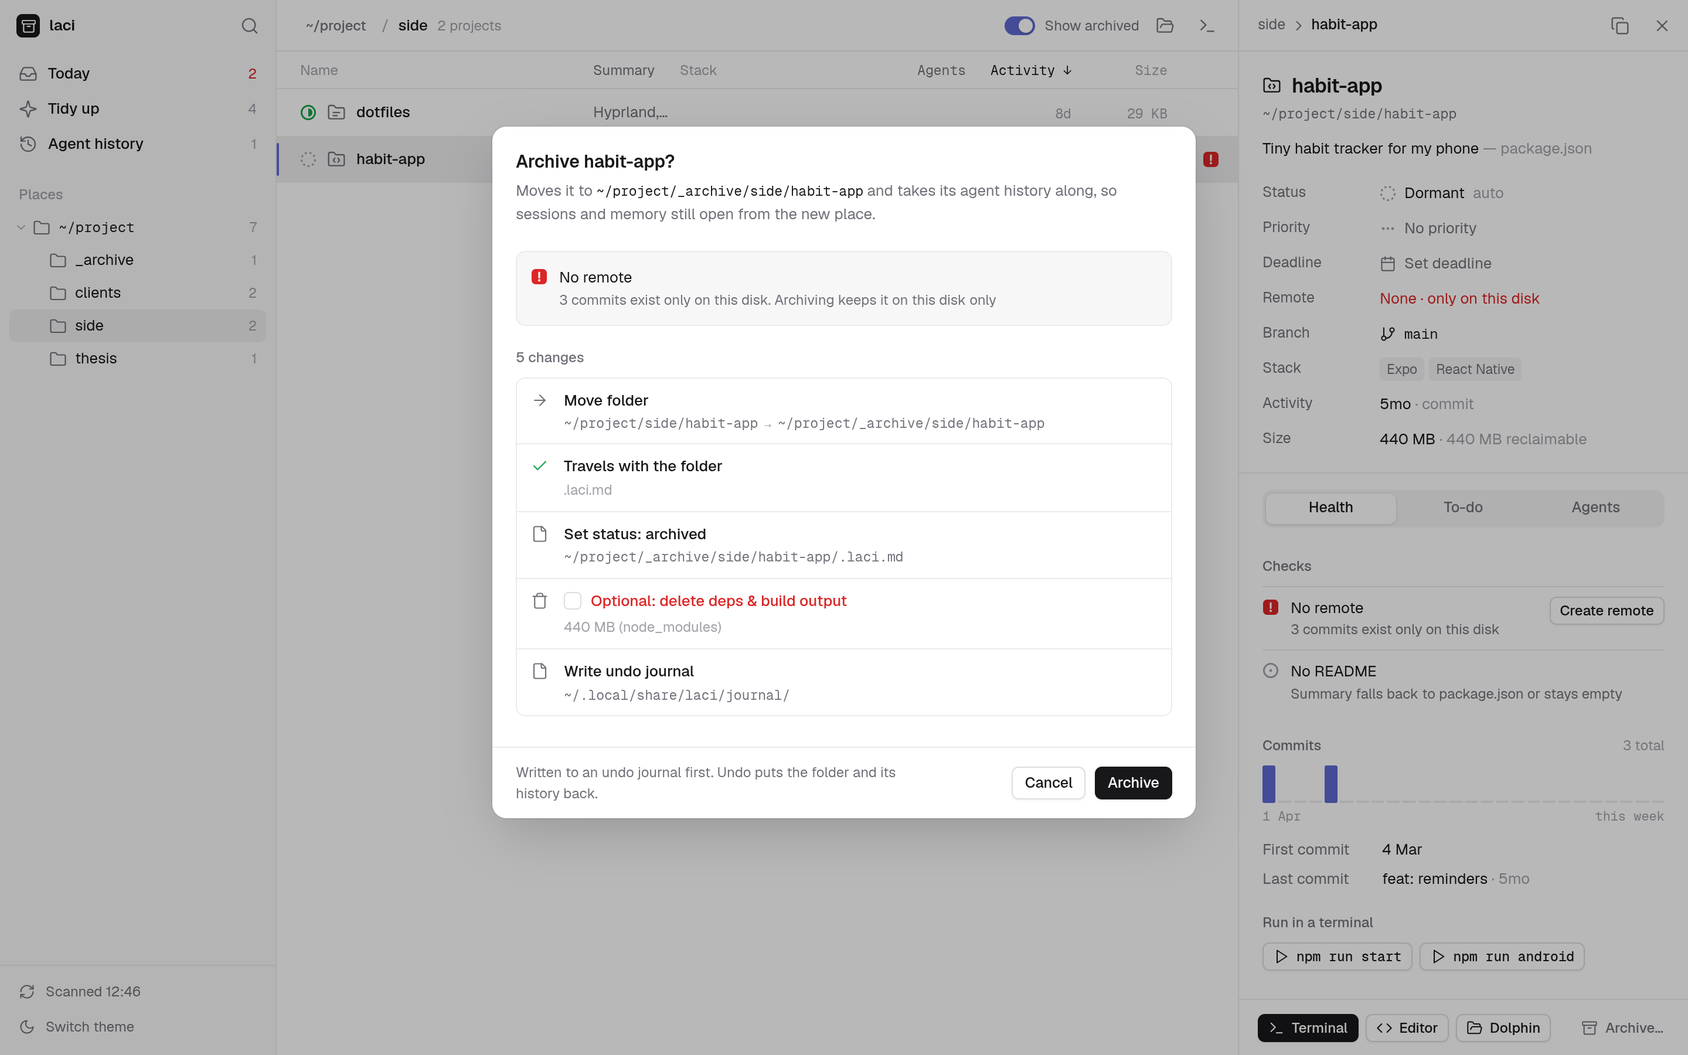
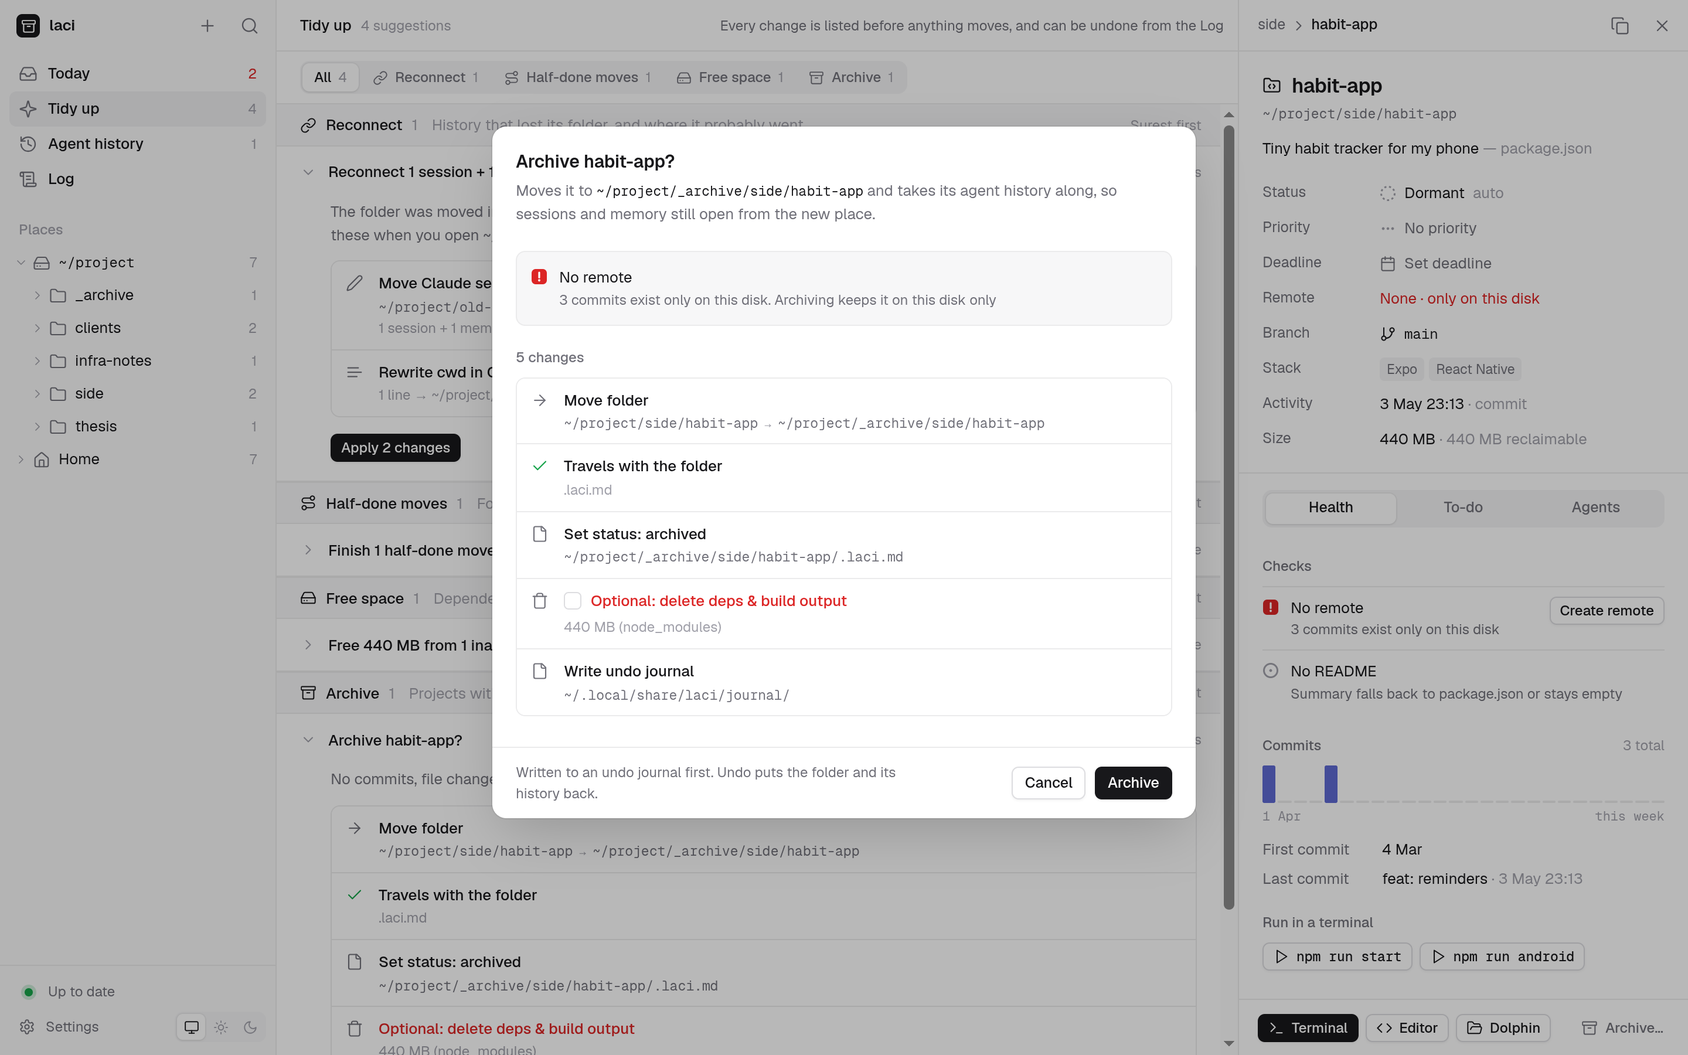
docs: README and screenshots for v1, changelog 1.0.0

diff --git a/README.md b/README.md
@@ -4,14 +4,14 @@
 
 *Laci* is Indonesian for "drawer".
 
-laci scans your project folders and shows, for each one: git state, README summary, stack, open to-dos, and the Claude Code and Codex sessions that worked in it. It warns you about work that exists only on this disk. When you move or archive a project, its agent history and memory move with it, and every change can be undone.
+laci shows every folder like a file manager, and for each project it adds its git state, README summary, stack, open to-dos, and the Claude Code, Codex or other agent sessions that worked in it. It warns you about work that exists only on this disk. When you move or archive a project, its agent history and memory move with it. Every change laci makes is logged and can be undone, and the app keeps itself up to date as you work.
 
 <picture>
   <source media="(prefers-color-scheme: dark)" srcset="docs/screenshots/today-dark.png">
   <img alt="The Today view: work that could be lost, projects to pick up again, and open to-dos" src="docs/screenshots/today-light.png">
 </picture>
 
-> Status: early (v0.1), Linux only. Expect rough edges.
+> Status: v1.0, Linux only. Early software: expect rough edges. See the [changelog](CHANGELOG.md).
 
 ## Contents
 
@@ -43,42 +43,67 @@ laci puts all of this in one place and makes moving projects safe.
 
 ### Today: what needs you
 
-The home screen answers "what should I look at?":
+The home screen answers "what should I look at?". Each list says how it's ordered.
 
 - **Could lose work**: no remote, never committed, uncommitted or unpushed changes, stashes. Each row has a one-click fix (for example *Create remote* or *Push*) that opens in the built-in terminal.
 - **Pick up where you left off**: recently active projects, each with its last commit and last agent session.
 - **Open to-dos**: every open `- [ ]` checkbox across your notes files, plus next steps you add in laci.
 - **Handoffs**: `HANDOFF.md` or `TODO.md` files that still have open items under a TODO heading.
 
+### Browse everything
+
+Every folder and file, like Dolphin or Finder, with projects marked by their status, summary, stack, agent sessions and health. *Modified* means the same on every row: when anything inside last changed, whether a file, a commit or an agent session.
+
+- **Filters**: *All files* shows the folder you're in. *Projects*, *Uses laci*, *Agent sessions* and *Needs attention* list matching projects in this folder and every folder below it.
+- **Display**: sort by name, modified, size or agent sessions in either direction, keep folders first or mix them in, and show hidden files or archived projects. Column headers sort too.
+
+![Every project under ~/project, with status, summary, stack, agent sessions and health](docs/screenshots/browse.png)
+
 ### Projects and details
 
-Browse your project folders. Select one to see its summary, status, priority, deadline, remote, branch, stack and size. The panel has four tabs:
+Select a project to see its summary, status, priority, deadline, remote, branch, stack and size. The panel has four tabs:
 
 - **Health**: checks and a commit chart.
 - **To-do**: next steps and notes.
-- **Agents**: sessions, memory and plans.
+- **Agents**: sessions, memory and plans from every connected tool.
 - **README**: the rendered README.
 
 ![A project's details: status, priority, deadline, remote, stack, checks and commit activity](docs/screenshots/project.png)
 
 ### Tidy up
 
-laci finds cleanups and shows exactly which files each one touches before anything changes:
+laci finds cleanups and shows exactly which files each one touches before anything changes. They're grouped by kind, fixes for broken links first:
 
 - **Reconnect** agent history left at a folder's old address.
 - **Finish half-done moves**: session folders that were renamed while the logs inside still record the old path.
-- **Quarantine** sessions whose folder no longer exists.
 - **Free space** from `node_modules` and build output in dormant or archived projects.
-- **Archive** projects nobody has touched in a while.
 - **Duplicates**: the same repo cloned in two places.
+- **Quarantine** sessions whose folder no longer exists.
+- **Archive** projects nobody has touched in a while.
 
-![Tidy up: each suggestion lists the files it will change](docs/screenshots/tidy.png)
+![Tidy up: suggestions grouped by kind, each listing the files it will change](docs/screenshots/tidy.png)
 
 ### Archive and move, with the history attached
 
-Archiving moves a project into the nearest `_archive/` folder. laci also moves its Claude session folder, rewrites the `cwd` paths in the Claude and Codex logs, and marks the project archived. Everything goes into an undo journal first.
+Archiving moves a project into the nearest `_archive/` folder. laci also moves its agent history (Claude's session folder, and whatever else your connectors keep), rewrites the folder paths in the logs, and marks the project archived. Everything goes into an undo journal first.
 
 ![The archive dialog: warnings first, then every change it will make](docs/screenshots/archive.png)
+
+### Log
+
+Every change laci makes, from the app or from an agent through MCP: moves, archives, Tidy fixes, status, priority and deadline, to-dos, notes, connectors, settings and new projects. Moves expand to show what went where. Most changes have an *Undo*; one that was changed again later says so instead of overwriting the newer change.
+
+![The Log: an archive expanded to show its steps, and edits made by an agent](docs/screenshots/log.png)
+
+### Agent history and connectors
+
+A connector tells laci where an AI tool keeps its history, so it shows on the right project and travels with it. Claude Code, Codex, Gemini CLI, Claude plans, Serena and Aider are built in; laci suggests the ones it finds on your machine. Any other tool can be added with a short form, no code: its logs record the folder, it keeps one folder per project, it keeps history inside the project, or its files mention project paths.
+
+![Agent history: connected tools, sessions per project, and history whose folder is gone](docs/screenshots/agents.png)
+
+### New project
+
+<kbd>+</kbd> in the sidebar makes a project folder: empty, from a template in `~/.config/laci/templates`, or cloned from a URL. laci starts git with a first commit, writes a `.laci.md`, and can create a private repo on GitHub, GitLab or both (with `gh` and `glab`), set up so one `git push` updates both.
 
 ### Built-in terminal
 
@@ -86,9 +111,13 @@ Press <kbd>F4</kbd> for a terminal panel with real shells, one tab per project, 
 
 ![The terminal panel under a project](docs/screenshots/terminal.png)
 
+### Stays current
+
+laci watches your project folders, each project's files and git state, the agent logs and the folders you have open. New folders, edits, commits and agent sessions show up on their own, usually within a couple of seconds. The sidebar says *Up to date*; click it to scan everything again if something looks off.
+
 ### For agents: MCP
 
-laci ships an [MCP](https://modelcontextprotocol.io) server, so Claude Code, Codex and other agents can ask laci what exists and move projects the safe way instead of using `ls` and `mv`. See [Agents](#agents-mcp).
+laci ships an [MCP](https://modelcontextprotocol.io) server, so Claude Code, Codex and other agents can ask laci what exists, and move, archive or create projects the safe way instead of using `ls` and `mv`. What they change shows up in the Log. See [Agents](#agents-mcp).
 
 ### In the terminal
 
@@ -102,6 +131,7 @@ laci ships an [MCP](https://modelcontextprotocol.io) server, so Claude Code, Cod
 - git
 - Node.js 23.6 or newer and pnpm, for installing and for the CLI
 - A C/C++ toolchain (`make`, `g++`, `python3`), because `node-pty` builds locally
+- Optional: `gh` and `glab`, to create repos from *New project*
 
 ### Install
 
@@ -112,7 +142,9 @@ pnpm install
 pnpm start
 ```
 
-The first scan takes about 10 seconds, because laci reads every agent log to link it to a folder. The desktop app runs on Electron's bundled Node, so it works even when your shell's Node comes from a version manager.
+The first launch asks three things: which folders hold your projects (laci suggests the ones with git repos), which AI tools you use, and which editor, file manager and terminal to open things with. You can change them later in Settings.
+
+The first scan reads every agent log once, which can take 10 seconds or more if you have a lot of history. laci remembers what it read (in `~/.cache/laci`), so later scans take a few seconds, and the app opens with the last scan while it checks for changes. The desktop app runs on Electron's bundled Node, so it works even when your shell's Node comes from a version manager.
 
 To add laci to your app launcher:
 
@@ -128,11 +160,12 @@ sh scripts/install-desktop.sh     # writes ~/.local/share/applications/laci.desk
 | --- | --- |
 | <kbd>Ctrl</kbd> <kbd>K</kbd> | Jump to any project, folder or action |
 | <kbd>F4</kbd> or <kbd>Ctrl</kbd> <kbd>`</kbd> | Show or hide the terminal |
+| <kbd>Ctrl</kbd> <kbd>H</kbd> | Show or hide hidden files |
 | <kbd>↑</kbd> <kbd>↓</kbd> <kbd>Enter</kbd> | Move through lists and open |
 | <kbd>Backspace</kbd> | Go up one folder |
-| <kbd>Esc</kbd> | Close the details panel or a dialog |
+| <kbd>Esc</kbd> | Close the details panel, a menu or a dialog |
 
-In the details panel, click **Status**, **Priority** or **Deadline** to change them. They are saved to the project's [`.laci.md`](#the-lacimd-file). **Editor** opens VS Code and **Dolphin** opens the file manager.
+In the details panel, click **Status**, **Priority** or **Deadline** to change them. They are saved to the project's [`.laci.md`](#the-lacimd-file). **Editor** and the file manager button open the apps you picked in Settings. The theme switch (system, light, dark) is at the bottom of the sidebar.
 
 Prefer a browser? `pnpm web` serves the same UI and opens it in Chromium's app mode, or in your default browser.
 
@@ -162,7 +195,7 @@ args = ["/home/you/project/laci/src/mcp.ts"]
 env = { ELECTRON_RUN_AS_NODE = "1" }
 ```
 
-Then ask your agent things like *"which projects could lose work?"*, *"archive dummy2"* or *"move ~/Downloads/foo into ~/project/clients"*.
+Then ask your agent things like *"which projects could lose work?"*, *"archive dummy2"*, *"move ~/Downloads/foo into ~/project/clients"* or *"start a new project called shop-api in ~/project/clients"*.
 
 | Tool | What it does |
 | --- | --- |
@@ -172,10 +205,10 @@ Then ask your agent things like *"which projects could lose work?"*, *"archive d
 | `tidy_suggestions` | The Tidy up list |
 | `set_project_fields` | Status, priority, deadline |
 | `add_next_step`, `complete_task`, `write_notes` | Edit to-dos and notes |
-| `move_project`, `archive_project`, `apply_suggestion` | Changes on disk. Two calls: the first returns the plan, the second (with `confirm: true`) runs it |
-| `recent_changes`, `undo_change` | The journal, and undo |
+| `move_project`, `archive_project`, `apply_suggestion`, `create_project` | Changes on disk. Two calls: the first returns the plan, the second (with `confirm: true`) runs it |
+| `recent_changes`, `undo_change` | The Log, and undo |
 
-Moves must stay inside your home folder, and only one laci process (the app or an agent) changes files at a time.
+Moves and new projects must stay inside your home folder, and only one laci process (the app or an agent) changes files at a time.
 
 ## How it works
 
@@ -183,21 +216,22 @@ Moves must stay inside your home folder, and only one laci process (the app or a
 flowchart LR
   subgraph disk[Your disk]
     P[Project folders]
-    C["~/.claude/projects"]
-    X["~/.codex/sessions"]
+    C["Agent logs<br/>~/.claude, ~/.codex, …"]
   end
-  P & C & X --> S[Scanner] --> N[Snapshot]
+  P & C --> S[Scanner] --> N[Snapshot]
+  P & C -. changes .-> W[Watcher] --> N
   N --> A[Desktop app]
   N --> L[CLI]
   N --> M[MCP server]
-  A & M --> E[Move engine<br/>journal + undo]
-  E --> disk
+  A & M --> E[Move engine<br/>journal + undo] --> disk
+  A & M --> G[Log]
 ```
 
-- **Finding projects.** laci walks `~/project`, `~/tugas`, `~/Documents`, `~/Desktop` and `~/Downloads` (plus `~/code`, `~/dev`, `~/src`, `~/repos` and `~/work` if they exist). A folder is a *project* if it has `.git` or a build file (`package.json`, `go.mod`, `Cargo.toml`, `pyproject.toml`, `composer.json`, `pubspec.yaml` and more). A folder that only holds notes is a *docs project*. A folder of projects is a *group*.
+- **Finding projects.** laci walks the folders you picked (Settings). A folder is a *project* if it has `.git` or a build file (`package.json`, `go.mod`, `Cargo.toml`, `pyproject.toml`, `composer.json`, `pubspec.yaml` and more). A folder that only holds notes, or one an agent worked in, is a *docs project*. A folder of projects is a *group*. These are fixed rules, not guesses by an AI.
 - **Reading each project.** It reads the git state (commits, remote, branch, uncommitted, unpushed, stashes and weekly activity), the README (title, summary, links), the stack from package files, and to-dos from `.laci.md`, `HANDOFF*.md`, `TODO*.md`, `NOTES*.md` and `tasks/todo.md`.
-- **Linking agent history.** Claude Code names its session folders after the path with every non-alphanumeric character turned into `-`, so the name can't be decoded back. laci walks the real filesystem to find the folder a name belongs to. Codex logs are linked by the `cwd` inside them, and Claude plans by the paths they mention.
-- **Status.** Status is set automatically from the last activity (commit, file change or agent session): *active* within 14 days, *idle* within 60, *dormant* after that, and *archived* inside an `_archive` folder. Set it by hand to override.
+- **Linking agent history.** Each connector says how its tool links history to a folder. Claude Code names its session folders after the path with every non-alphanumeric character turned into `-`, so the name can't be decoded back; laci walks the real filesystem to find the folder a name belongs to. Codex logs are linked by the `cwd` inside them, Gemini CLI by a hash of the path, and Claude plans by the paths they mention. What laci learns from each log is cached, and a growing log is read from where the last read stopped.
+- **Staying current.** After a scan, laci watches the folders where projects live, the files and git state of each project, the agent log folders and the folders open in the app. It then re-reads only what changed: one project, the agent logs, or (when folders appear or disappear) a full scan.
+- **Status.** Status is set automatically from the last activity (commit, file change or agent session): *active* within 14 days, *idle* within 60, *dormant* after that, and *archived* inside an `_archive` folder. Set it by hand to override. Editing `.laci.md` doesn't count as activity.
 - **Former locations.** When a session folder resolves to a real folder but its sessions *started* somewhere that no longer exists, that old path is a former location. This is how laci spots half-done moves and renames, such as a repo renamed from `shop-old` to `shop`.
 
 ## The `.laci.md` file
@@ -227,35 +261,57 @@ laci adds `.laci.md` to the repo's `.git/info/exclude` (not `.gitignore`), so it
 
 | When | What happens |
 | --- | --- |
-| Scanning | Read-only. `git status` runs with `GIT_OPTIONAL_LOCKS=0`, so it never touches the index |
+| Scanning and watching | Read-only. `git status` runs with `GIT_OPTIONAL_LOCKS=0`, so it never touches the index |
 | Status, priority, deadline, to-dos, notes | Written to `.laci.md` in the project |
 | Ticking a checkbox | Changes that line in the file it came from, for example `NOTES.md` |
-| Archive, move, reconnect, finish a move | Moves folders, renames `~/.claude/projects/<dir>`, rewrites `"cwd"` fields in Claude and Codex logs |
+| Archive, move, reconnect, finish a move | Moves folders, renames agent history folders, rewrites the folder path in agent logs (keeping each log's time) |
 | Free space | Sends `node_modules`, `.next` and similar folders to the system trash |
 | Back up logs | Copies agent logs to `~/.local/share/laci/history` |
+| New project | Makes the folder; creates a remote repo only if you pick one |
 
 - **Undo.** Every move and rewrite is written to `~/.local/share/laci/journal/` *before* it happens. Rewritten files are kept in `~/.local/share/laci/backup/`. Undo restores them byte for byte. If a step fails midway, laci rolls back what it already did.
+- **Log.** Every change is also listed in `~/.local/share/laci/activity.jsonl`, which the Log page reads. Undo from the Log goes through the same checks as the app, and never reaches outside your home folder.
 - **Busy folders are refused.** If a running process (a `claude` session, a dev server) has a folder open, laci won't move it.
 - **One change at a time.** A lock file keeps the app and agents from changing files at once.
 - **Local only.** The UI talks to a server on `127.0.0.1` that requires a per-launch token and rejects other host names, so websites can't reach it. The only network request is the Geist font from Google Fonts. There is no telemetry.
 
 ## Configuration
 
+Settings are saved in `~/.config/laci/config.json` (or under `$XDG_CONFIG_HOME`). Paths are stored as `~/…`.
+
+| Key | |
+| --- | --- |
+| `roots` | Folders laci looks for projects in |
+| `presets` | Built-in connectors you added |
+| `custom` | Connectors you described yourself |
+| `apps` | `terminal`, `editor` and `files`: the programs laci opens things with |
+| `theme` | `light` or `dark`; missing means follow the system |
+
+Environment variables win over the file, for one-off runs:
+
 | Variable | Default | |
 | --- | --- | --- |
 | `LACI_PORT` | `4747` | Port of the local server |
-| `LACI_TERMINAL` | `kitty` | External terminal (`konsole` also works) |
-| `LACI_EDITOR` | `code` | Editor opened by **Editor** |
-| `LACI_FILES` | `dolphin` | File manager opened by **Dolphin** |
+| `LACI_TERMINAL` | from Settings, else `kitty` | External terminal |
+| `LACI_EDITOR` | from Settings, else `code` | Editor opened by **Editor** |
+| `LACI_FILES` | from Settings, else `dolphin` | File manager |
+| `LACI_DEBUG` | off | Also log file watcher events to the debug log |
 
-The folders laci scans are fixed for now (see [How it works](#how-it-works)).
+Other files laci keeps:
+
+| Path | |
+| --- | --- |
+| `~/.config/laci/templates/` | Starting points for *New project*: each folder is one template |
+| `~/.local/share/laci/` | Undo journals, backups, the Log (`activity.jsonl`) and the debug log (`laci.log`) |
+| `~/.cache/laci/` | What laci learned from agent logs, and the last scan. Safe to delete |
 
 ## Development
 
 ```
-src/core/        scanner, parsers, health checks, tidy-up suggestions, move engine
-  agents/        Claude Code, Codex and plan readers
+src/core/        scanner, parsers, health checks, tidy-up suggestions, move engine, log
+  agents/        connectors: Claude Code and the generic readers, plus their cache
 src/server.ts    local API for the UI
+src/watch.ts     file watching for live updates
 src/term.ts      terminal sessions (node-pty), streamed to the UI
 src/mcp.ts       MCP server
 src/cli.ts       CLI
@@ -268,7 +324,7 @@ test/            tests
 The code is TypeScript that runs directly on Node 23.6+ (type stripping), with no build step. Stack: Electron 44, node-pty, xterm.js and the MCP TypeScript SDK v2.
 
 ```sh
-pnpm test        # move engine, API security and MCP tests, against a throwaway HOME
+pnpm test        # move engine, undo, API security and MCP tests, against a throwaway HOME
 pnpm typecheck
 ```
 
@@ -276,17 +332,16 @@ To try changes without touching your real projects, run laci against a fake home
 
 ```sh
 node scripts/demo.ts /tmp/laci-demo          # clients, a thesis, side projects, agent history
-HOME=/tmp/laci-demo LACI_PORT=4848 node src/server.ts --open
+HOME=/tmp/laci-demo XDG_CONFIG_HOME= XDG_CACHE_HOME= LACI_PORT=4848 node src/server.ts --open
 ```
 
 The screenshots in this README come from that demo data.
 
 ## Roadmap
 
-- **Browse any folder**, not only projects: the plain file manager part (copy, rename, preview files)
-- Live updates by watching the disk, instead of rescanning
+- Manage agent sessions from laci
+- File operations in the browser: copy, rename, delete, preview
 - Packages: AppImage and `.deb`
-- More agents: Gemini CLI, Cursor, Aider
 - Search across agent sessions ("when did I talk about Midtrans?")
 - Summaries written by an agent for projects without a README
 - Windows
@@ -294,13 +349,16 @@ The screenshots in this README come from that demo data.
 ## FAQ
 
 **Does it show every folder, like Dolphin?**
-Not yet. It shows project folders and the folders that contain them. General file browsing is on the roadmap.
+Yes. Browse from your project folders or from Home. Projects get their status and details on top of the usual file list.
 
 **Will it change my repos?**
 Only if you ask it to. Scanning is read-only, `.laci.md` is excluded from git, and moves go through the undo journal.
 
-**Why does the first scan take 10 seconds?**
-laci reads every Claude and Codex log to see which folder each belongs to. Most of the time is spent on large session files.
+**Why does the first scan take a while?**
+laci reads every agent log once to see which folder each belongs to. After that it only reads logs that changed, so later scans take a few seconds.
+
+**Do I need to press "Scan again"?**
+Normally no. laci watches for changes and updates by itself. A full scan is there in case something looks off.
 
 **Does it send my code anywhere?**
 No. Everything stays on your machine.

diff --git a/CHANGELOG.md b/CHANGELOG.md
@@ -2,7 +2,9 @@
 
 What changed in laci, newest first. The format follows [Keep a Changelog](https://keepachangelog.com/en/1.1.0/).
 
-## [Unreleased]
+## [1.0.0] - 2026-09-30
+
+The first tagged release: a file manager for your projects that keeps their agent history attached, now live and with a log of everything it changes.
 
 ### Added
 
@@ -11,8 +13,9 @@ What changed in laci, newest first. The format follows [Keep a Changelog](https:
 - **Instant start.** The last scan shows right away while a fresh one runs in the background.
 - **Display menu** in the folder view: sort by name, modified, size or agent sessions in either direction, and choose whether folders come first and whether hidden files and archived projects show.
 - **Theme switch** (system, light, dark) in the sidebar.
+- **`create_project`** MCP tool: agents can start a project the same way the app does, with a plan first.
 - **Debug log** at `~/.local/share/laci/laci.log` (rotated at 1 MB), with a *Debug log* button on the Log page. `LACI_DEBUG=1` adds file watcher events.
-- This changelog.
+- This changelog, and a README with new screenshots.
 
 ### Changed
 
@@ -28,6 +31,9 @@ What changed in laci, newest first. The format follows [Keep a Changelog](https:
 
 - The window no longer flashes the other theme's colors at start.
 - A repo pushed to GitHub (`origin`) and mirrored to a second remote showed the mirror as its remote.
+- A to-do containing `~/` or `snake_case` lost those characters (`~/.local` became `/.local`).
+- Rewriting paths in an agent log made that session look like it just ran; logs now keep their time.
+- Setting a status, to-do or note in laci no longer counts as activity on the project.
 
 ## [0.2.0] - 2026-09-30
 
